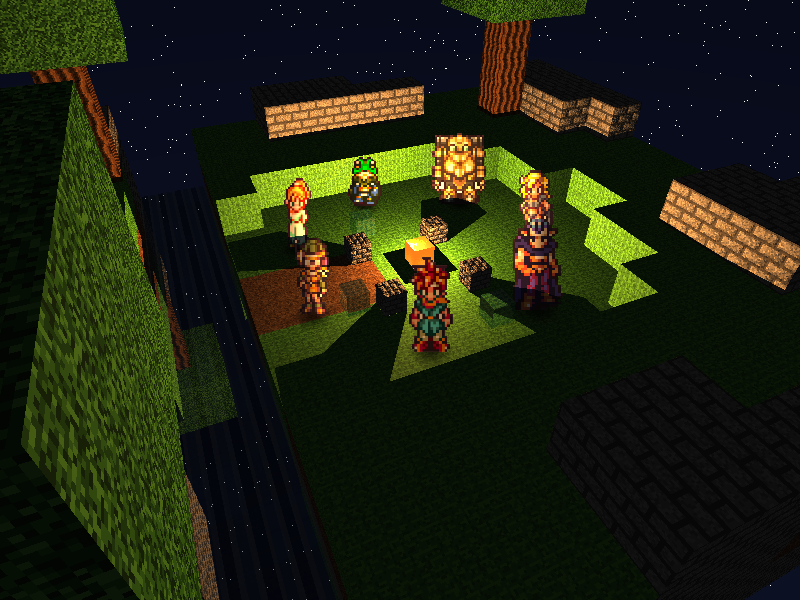
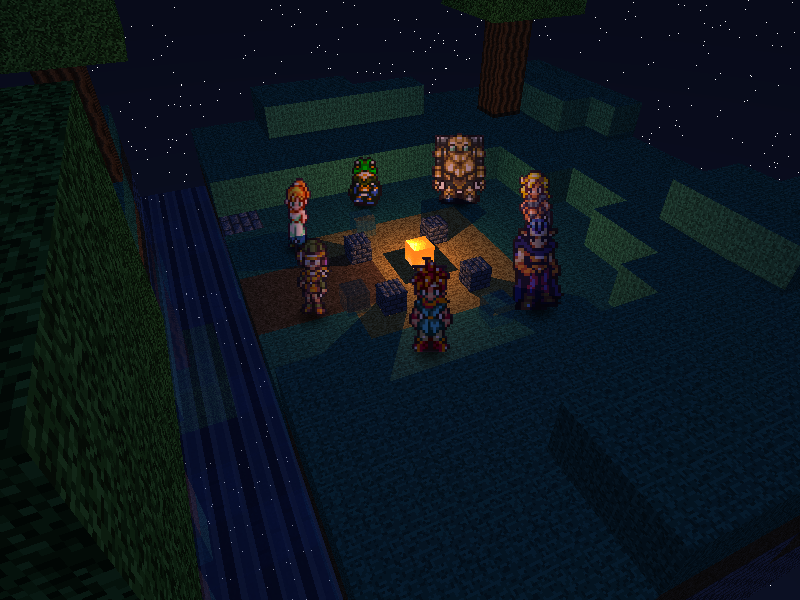
feat(lighting): Se implementa iluminación nocturna Chrono Trigger, halo cálido de fogata y nuevo encuadre.

diff --git a/src/raytrace.rs b/src/raytrace.rs
@@ -78,8 +78,9 @@ pub fn trace_ray(scene: &Scene, origin: Vector3, dir: Vector3, depth: u32) -> Ve
     // Sombreado de billboard
     if let Some((_bb, sprite_color, u, _v)) = hit_billboard {
         let hit_point = origin + dir * closest_t;
-        // Luz ambiental base para que los personajes nunca queden completamente negros
-        let ambient = sprite_color * 0.22;
+        // Luz ambiental azul noche (estilo Chrono Trigger)
+        let ambient_color = Vector3::new(0.10, 0.14, 0.30);
+        let ambient = mul_vec3(sprite_color, ambient_color);
         let mut diffuse = Vector3::zero();
 
         for light in &scene.lights {
@@ -90,12 +91,17 @@ pub fn trace_ray(scene: &Scene, origin: Vector3, dir: Vector3, depth: u32) -> Ve
             }
             let light_dir = light_vec / light_dist;
 
-            let shadow_orig = hit_point - scene.camera_forward * 1e-3;
-            let in_shadow = scene.grid.is_occluded(&scene.cubes, shadow_orig, light_dir, light_dist);
+            let in_shadow = if light.casts_shadow {
+                let shadow_orig = hit_point - scene.camera_forward * 1e-3;
+                scene.grid.is_occluded(&scene.cubes, shadow_orig, light_dir, light_dist)
+            } else {
+                false
+            };
 
             if !in_shadow {
-                // Atenuación suave por distancia a la fogata
-                let attenuation = (light.intensity / (1.0 + 0.20 * light_dist + 0.04 * light_dist * light_dist)).max(0.0);
+                // Atenuación suave 1 / (1 + (d/r)^2)
+                let norm_dist = light_dist / light.radius;
+                let attenuation = (light.intensity / (1.0 + norm_dist * norm_dist)).max(0.0);
                 let normal = -scene.camera_forward;
                 let wrap = (normal.dot(light_dir) * 0.5 + 0.5).max(0.25);
 
@@ -180,11 +186,12 @@ pub fn trace_ray(scene: &Scene, origin: Vector3, dir: Vector3, depth: u32) -> Ve
             };
 
             let view_dir = -dir;
-            // Luz ambiental mínima
-            let ambient = base_color * 0.12;
+            // Luz ambiental azul noche multiplicada por el albedo de cada superficie
+            let ambient_color = Vector3::new(0.10, 0.14, 0.30);
+            let ambient = mul_vec3(base_color, ambient_color);
             let mut diffuse_specular = Vector3::zero();
 
-            // Shadow rays hacia cada luz de scene.lights
+            // Iluminación por luces (fogata con sombras + luz de relleno azul tenue sin sombras)
             for light in &scene.lights {
                 let light_vec = light.position - hit_point;
                 let light_dist = light_vec.length();
@@ -198,11 +205,17 @@ pub fn trace_ray(scene: &Scene, origin: Vector3, dir: Vector3, depth: u32) -> Ve
                     continue;
                 }
 
-                let shadow_orig = hit_point + normal * 1e-3;
-                let in_shadow = scene.grid.is_occluded(&scene.cubes, shadow_orig, light_dir, light_dist);
+                let in_shadow = if light.casts_shadow {
+                    let shadow_orig = hit_point + normal * 1e-3;
+                    scene.grid.is_occluded(&scene.cubes, shadow_orig, light_dir, light_dist)
+                } else {
+                    false
+                };
 
                 if !in_shadow {
-                    let attenuation = (light.intensity / (1.0 + 0.22 * light_dist)).max(0.0);
+                    // Atenuación suave 1 / (1 + (d/r)^2) para halo cálido y brillo en troncos
+                    let norm_dist = light_dist / light.radius;
+                    let attenuation = (light.intensity / (1.0 + norm_dist * norm_dist)).max(0.0);
                     let diffuse = mul_vec3(base_color, light.color) * (n_dot_l * attenuation);
 
                     let mut specular = Vector3::zero();

diff --git a/src/procedural.rs b/src/procedural.rs
@@ -10,11 +10,12 @@ pub struct TerrainPalette {
     pub sand: Material,
     pub snow: Material,
     pub water: Material,
+    pub straw: Material,
 }
 
 /// Genera un terreno de `width` x `depth` cubos con relieve procedural,
 /// columnas rellenas (sin huecos), bordes sólidos hasta y=0 estilo isla flotante,
-/// un claro plano para el campamento, un camino de tierra y un arroyo hundido con agua reflectiva.
+/// un claro plano para el campamento con círculo de paja, un camino de tierra y un arroyo hundido con agua reflectiva.
 pub fn generate_terrain(
     width: i32,
     depth: i32,
@@ -56,6 +57,8 @@ pub fn generate_terrain(
                 false
             };
 
+            let is_stream_rock = (x == 4 && z == 11) || (x == 11 && z == 14);
+
             if in_stream {
                 // El arroyo está hundido 1 bloque respecto al terreno/claro (y=1 vs y=2)
                 height_map[idx] = 1;
@@ -67,10 +70,18 @@ pub fn generate_terrain(
                 // Camino de tierra: a nivel del claro (y=2), sin textura de pasto
                 height_map[idx] = 2;
                 material_map[idx] = palette.dirt;
+            } else if dist_center <= 2.5 {
+                // Círculo de paja en radio ~2.5 alrededor de la fogata (estilo Chrono Trigger)
+                height_map[idx] = 2;
+                material_map[idx] = palette.straw;
             } else if dist_center <= 3.5 {
-                // Claro aplanado de ~5x5 alrededor de la fogata (y=2, superficie en Y=3.0)
+                // Claro aplanado alrededor de la fogata (y=2, superficie en Y=3.0)
                 height_map[idx] = 2;
                 material_map[idx] = palette.grass;
+            } else if is_stream_rock {
+                // Pocas rocas pequeñas sueltas cerca del arroyo
+                height_map[idx] = 2;
+                material_map[idx] = palette.stone;
             } else {
                 // Relieve con colinas suaves de 2-3 bloques de desnivel
                 let nx = cx as f64 * scale;
@@ -85,12 +96,8 @@ pub fn generate_terrain(
                 let y_clamped = y.clamp(2, max_height.max(5));
 
                 height_map[idx] = y_clamped;
-                if y_clamped >= 4 {
-                    // Picos y crestas de roca
-                    material_map[idx] = palette.stone;
-                } else {
-                    material_map[idx] = palette.grass;
-                }
+                // Las capas superiores de la periferia/colinas son SIEMPRE pasto (no piedra ni ladrillo)
+                material_map[idx] = palette.grass;
             }
         }
     }

diff --git a/src/light.rs b/src/light.rs
@@ -4,17 +4,29 @@ pub struct Light {
     pub position: Vector3,
     pub color: Vector3,
     pub intensity: f32,
+    pub radius: f32,
+    pub casts_shadow: bool,
 }
 
 impl Light {
-    pub fn new(position: Vector3, color: Vector3, intensity: f32) -> Self {
-        Light { position, color, intensity }
+    pub fn new(position: Vector3, color: Vector3, intensity: f32, radius: f32, casts_shadow: bool) -> Self {
+        Light {
+            position,
+            color,
+            intensity,
+            radius,
+            casts_shadow,
+        }
     }
 
-    /// Luz cálida y parpadeante para colocar justo sobre los bloques de fogata.
-    /// La fogata es al mismo tiempo geometría emisiva (se ve brillante directo
-    /// a cámara) y fuente de luz real (ilumina el resto de la escena de noche).
+    /// Luz cálida de la fogata: atenuación suave 1 / (1 + (d/r)^2) con r ~ 4.8,
+    /// color (1.0, 0.60, 0.25). Llega con fuerza a ~3 bloques y alcanza los troncos con 25-35%.
     pub fn campfire(position: Vector3) -> Self {
-        Light::new(position, Vector3::new(1.0, 0.65, 0.3), 4.0)
+        Light::new(position, Vector3::new(1.0, 0.60, 0.25), 1.0, 4.8, true)
+    }
+
+    /// Luz de relleno azul tenue de noche (sin sombras) para no encarecer el render
+    pub fn sky_fill(position: Vector3) -> Self {
+        Light::new(position, Vector3::new(0.12, 0.20, 0.45), 0.35, 25.0, false)
     }
 }

diff --git a/src/scene.rs b/src/scene.rs
@@ -66,6 +66,7 @@ impl Scene {
                 sand: mats.dirt, // sin playa en este bioma; se reusa dirt
                 snow: mats.stone, // sin nieve en este bioma; se reusa stone
                 water: mats.water,
+                straw: mats.straw,
             },
         );
         cubes.extend(terrain);
@@ -88,8 +89,11 @@ impl Scene {
             cubes.push(Cube::new(Vector3::new(x, ground_y, z), 0.5, mats.gem));
         }
 
-        // --- Luces ---
-        let lights = vec![Light::campfire(Vector3::new(0.0, ground_y + 0.8, 0.0))];
+        // --- Luces (máximo 2: fogata con sombras + luz de relleno azul tenue sin sombras) ---
+        let lights = vec![
+            Light::campfire(Vector3::new(0.0, ground_y + 0.8, 0.0)),
+            Light::sky_fill(Vector3::new(0.0, 15.0, 0.0)),
+        ];
 
         // --- Personajes (7 miembros de Chrono Trigger en círculo alrededor de la fogata) ---
         let party_defs: [(&str, f32); 7] = [
@@ -150,6 +154,7 @@ impl Scene {
             "assets/fire.png",
             "assets/gem.png",
             "assets/water.png",
+            "assets/straw.png",
             "assets/party/Chrono.png",
             "assets/party/Marle.png",
             "assets/party/Lucca.png",

diff --git a/src/main.rs b/src/main.rs
@@ -72,9 +72,10 @@ fn main() {
             Vector3::new(0.0, 1.0, 0.0),
         )
     } else {
+        // Encuadre inicial más elevado (~30-35 grados de inclinación), mirando a la fogata
         Camera::new(
-            Vector3::new(0.0, 5.8, 8.5),
-            Vector3::new(0.0, 3.2, -0.8),
+            Vector3::new(0.0, 7.8, 8.8),
+            Vector3::new(0.0, 2.5, -0.2),
             Vector3::new(0.0, 1.0, 0.0),
         )
     };
